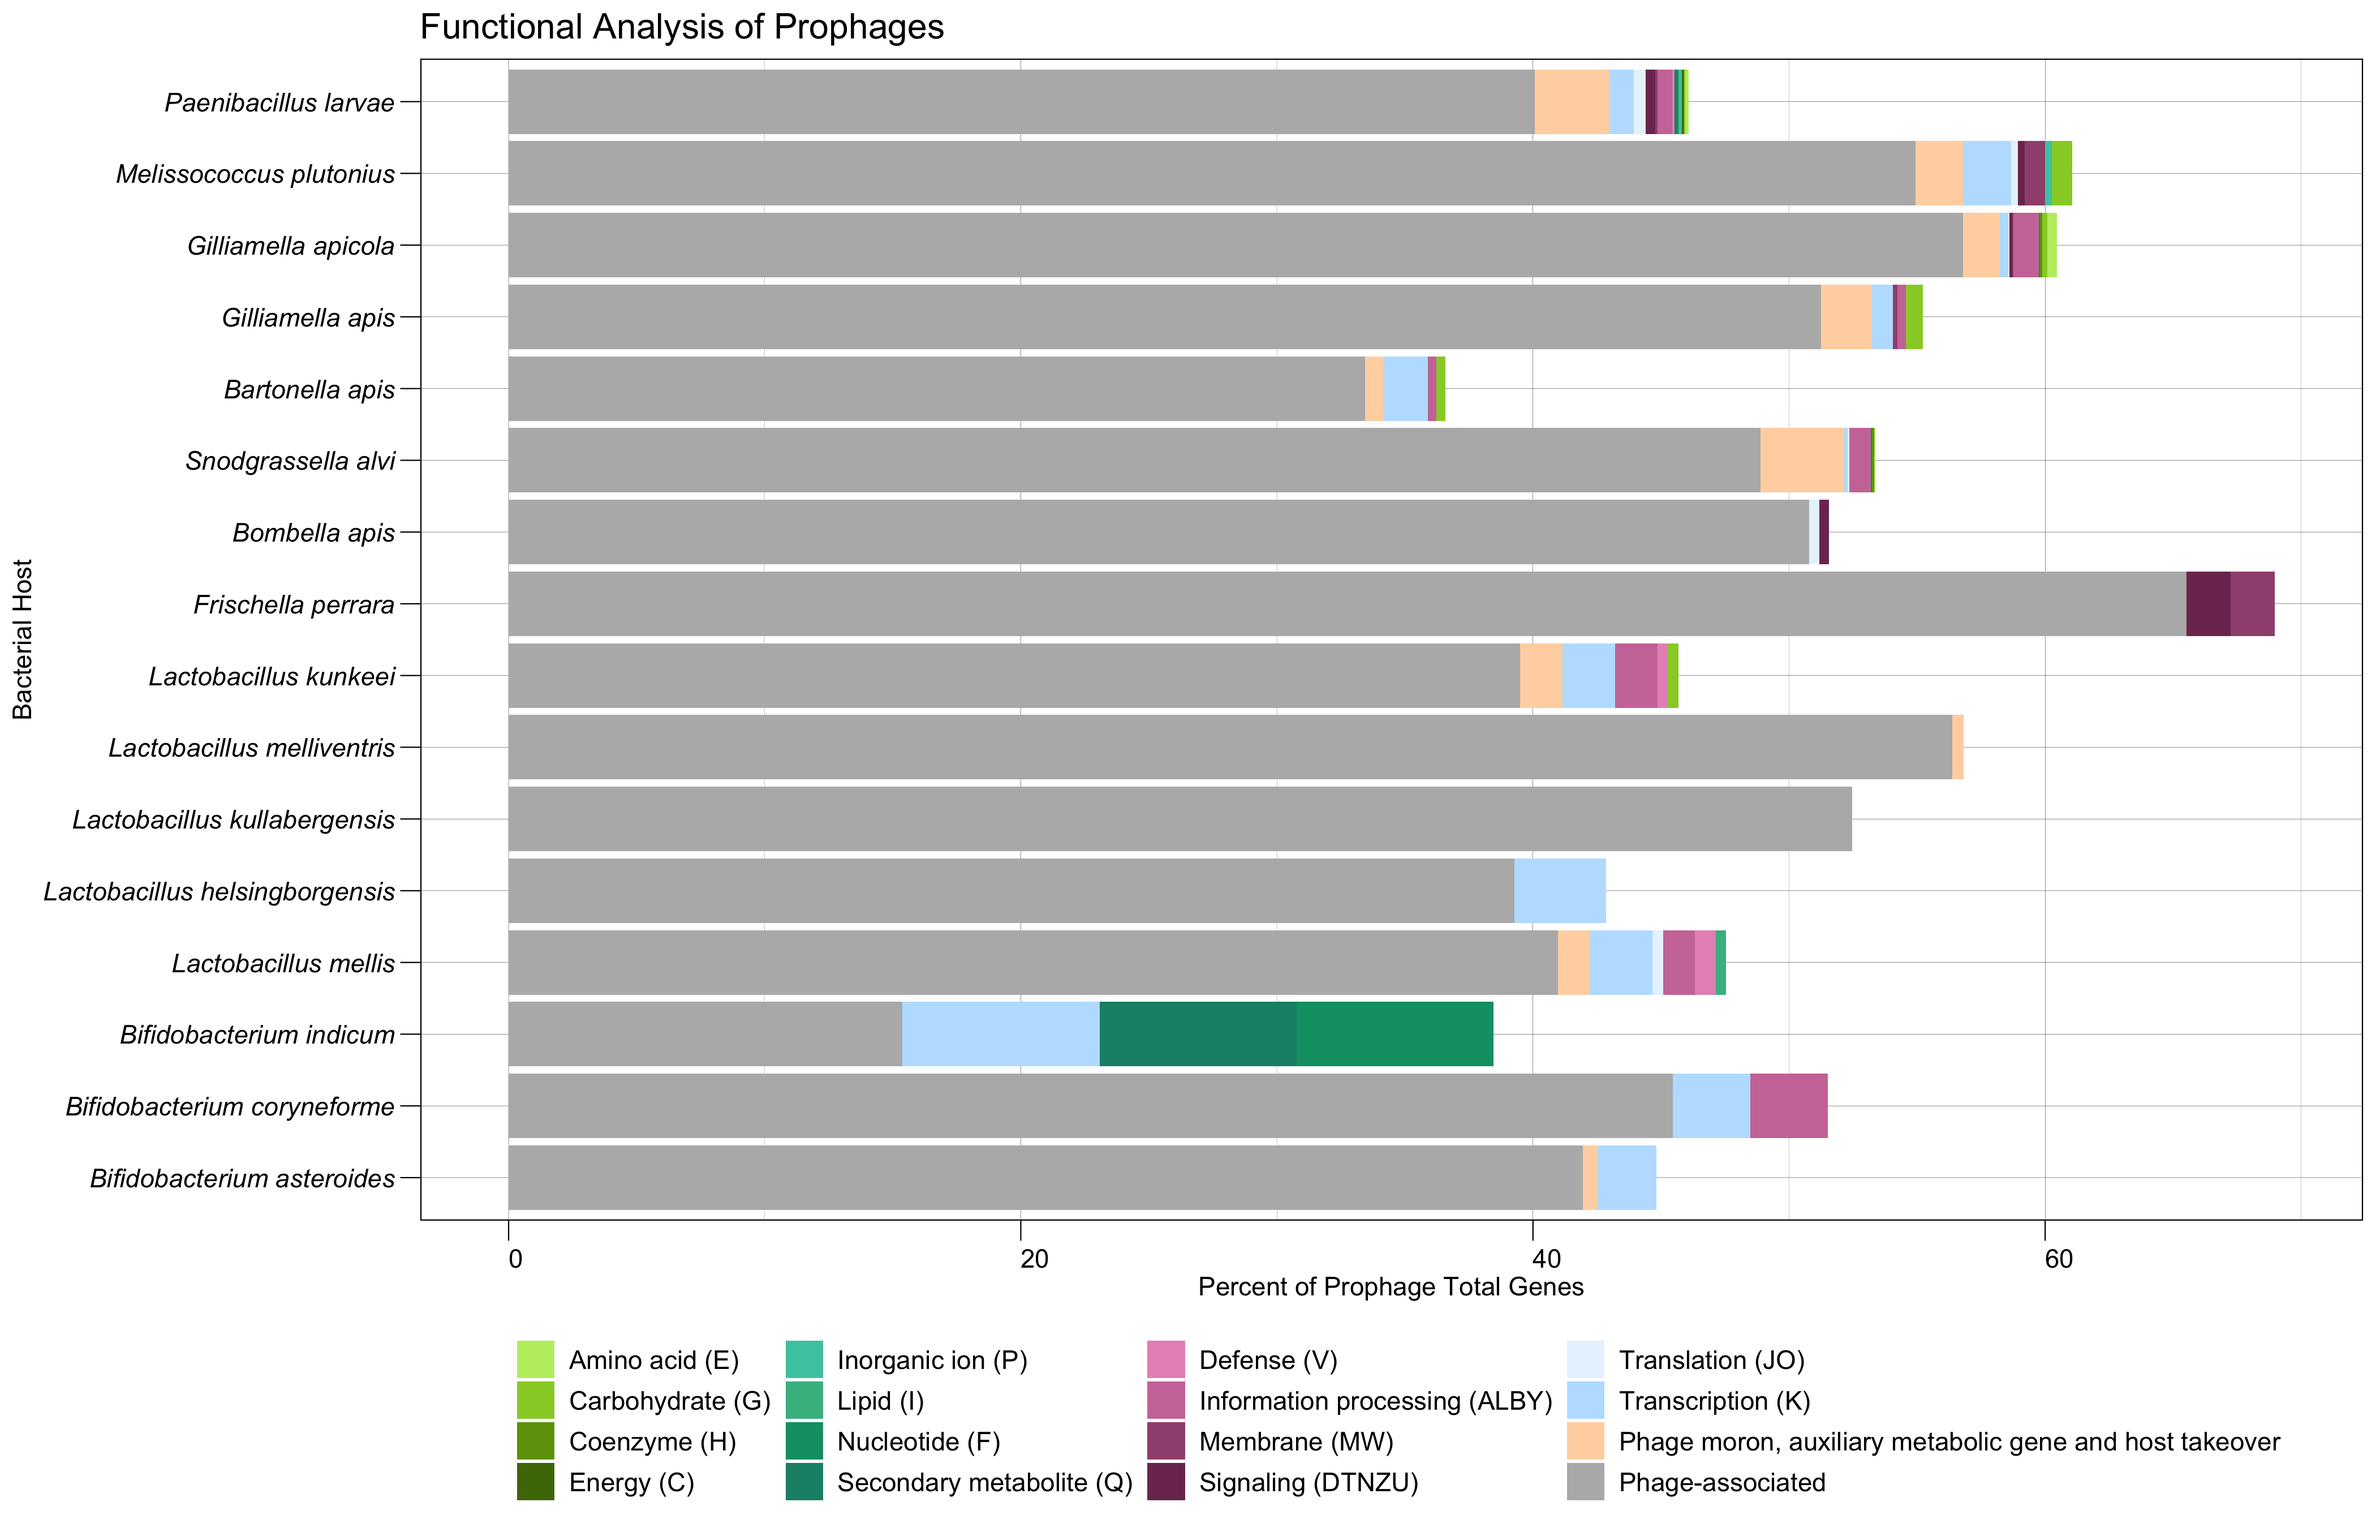
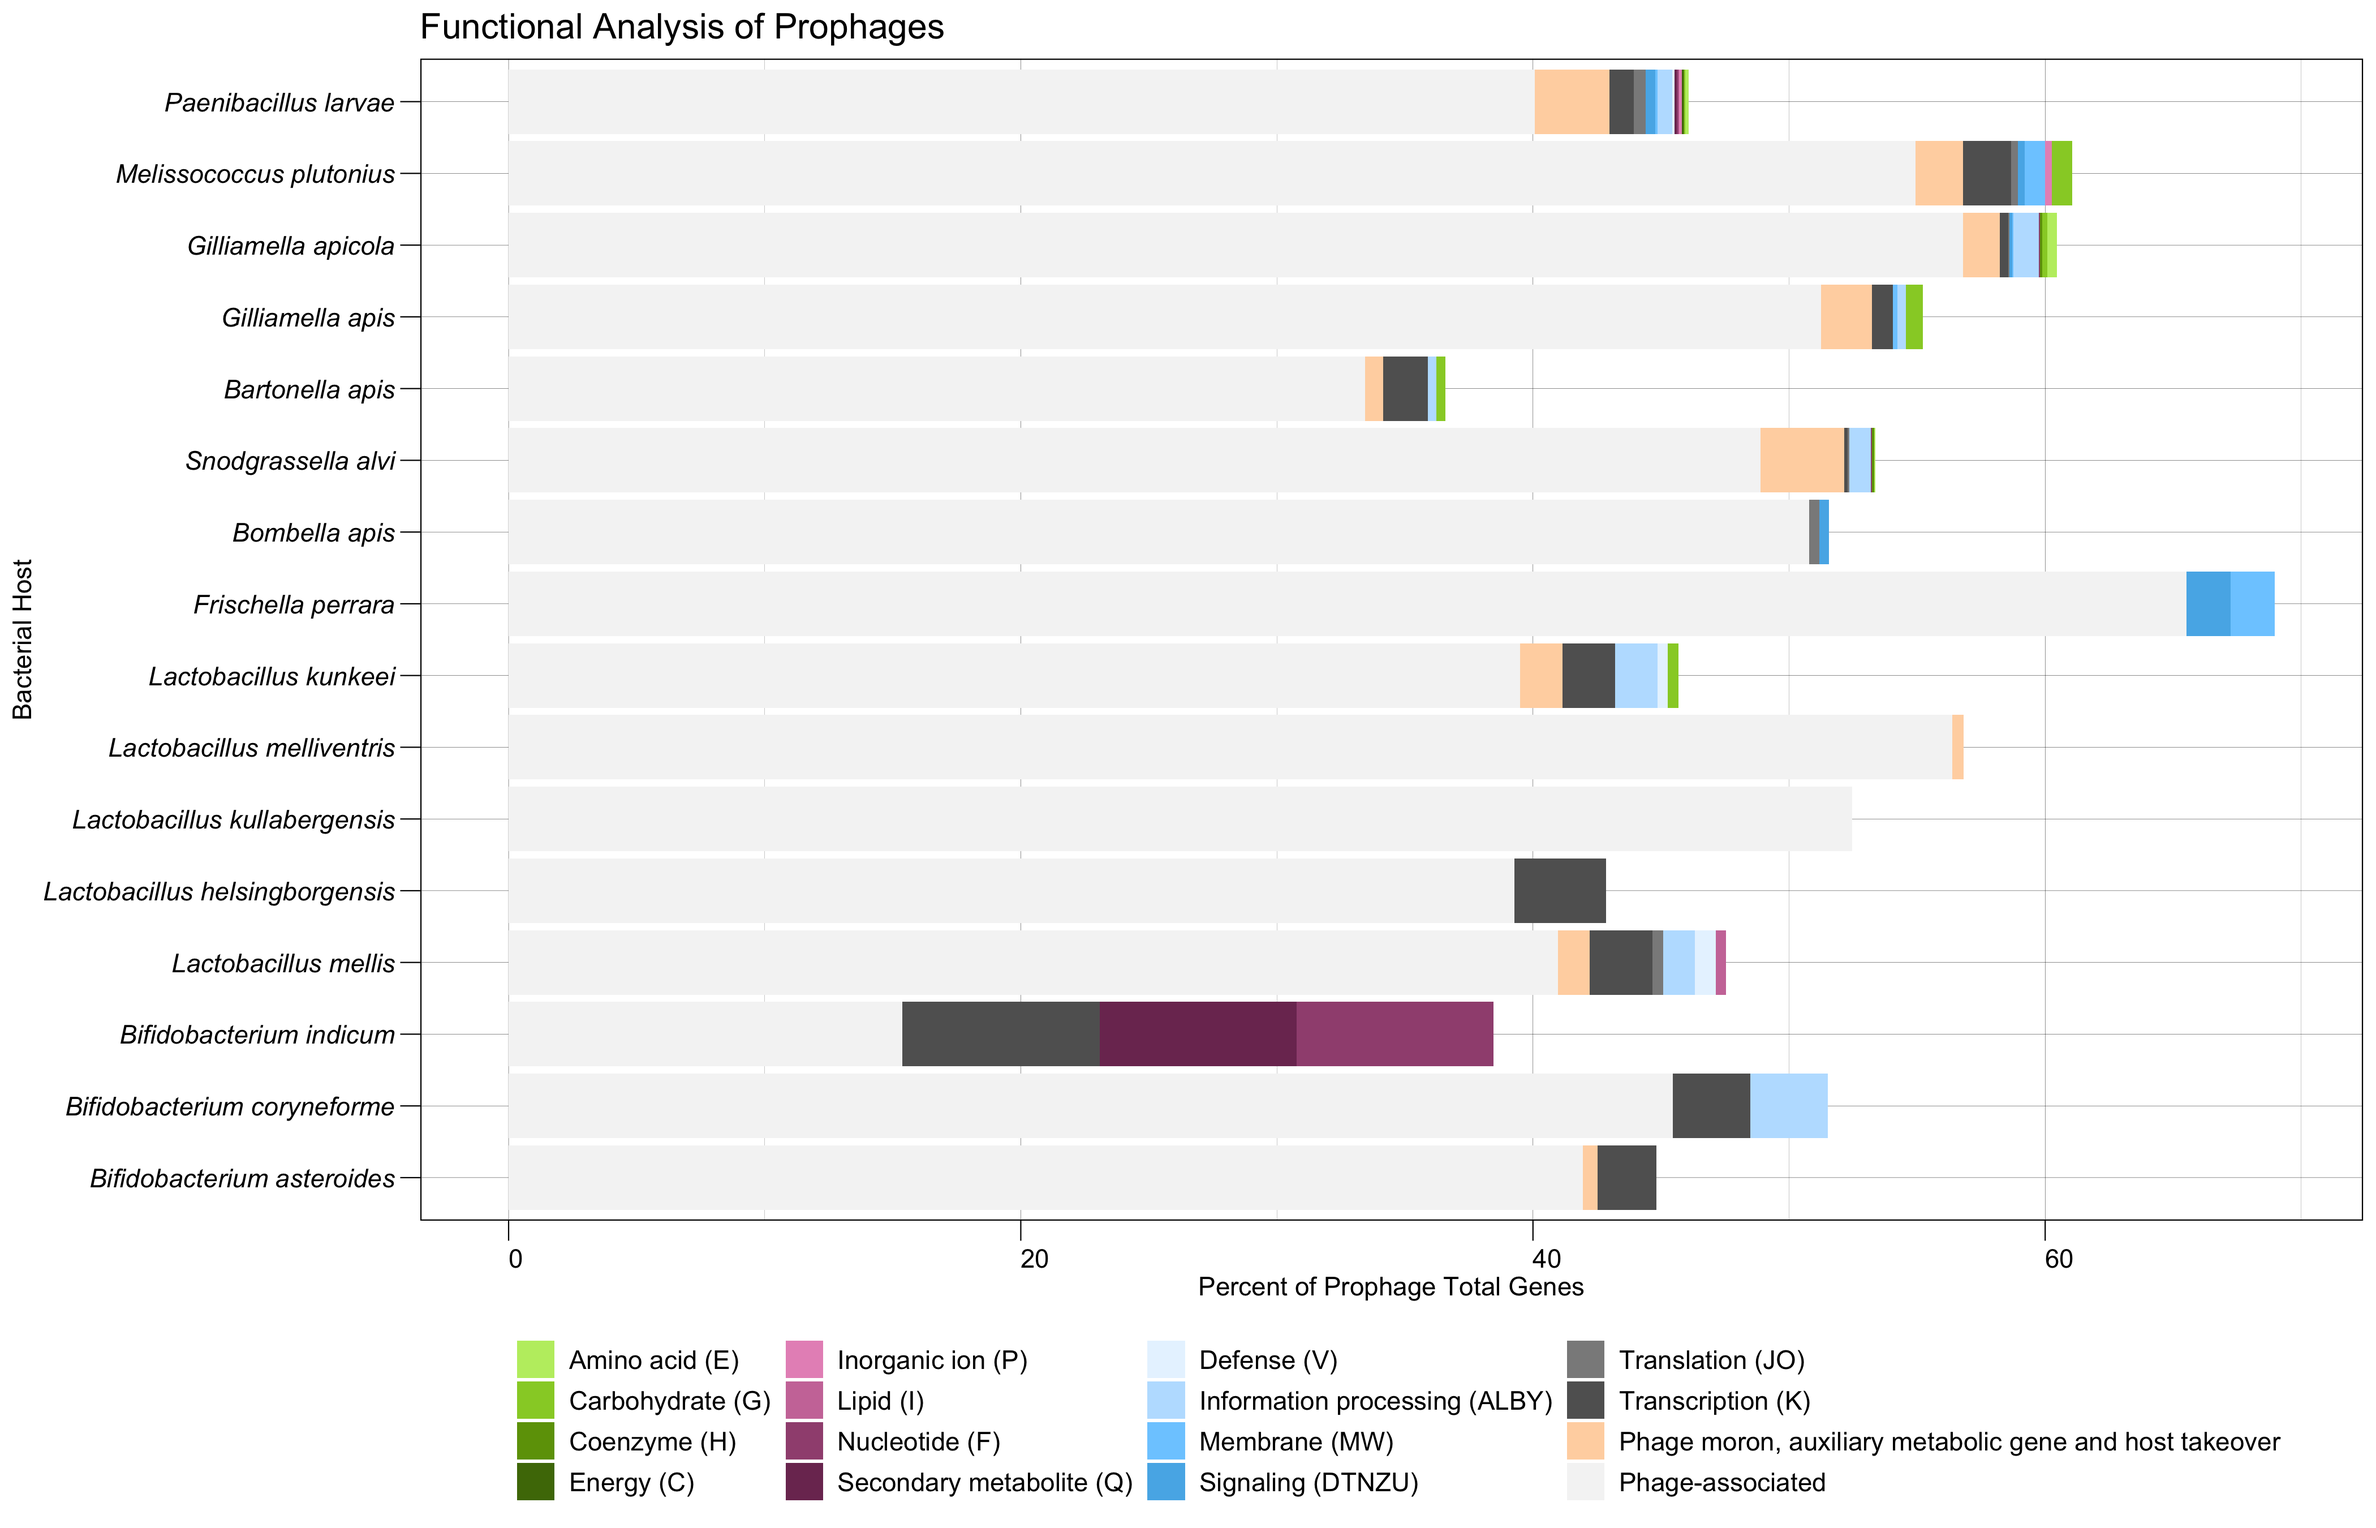
better colorblind friendly figures

diff --git a/README.md b/README.md
@@ -4,6 +4,8 @@
 
 ## Code: ##
 
+Raw sequences available at: Link Here
+
 01_datacleaning: Cleaning of NCBI metadata of bacterial isolates and basic phage pipeline (merging phage datasets, confidence filtering, incorporating dereplication)
 
 02_functionalcleaning: Merging functional analysis of phage (PHROGS & COG hits), identifying phage-associated proteins, estimating intactness.
